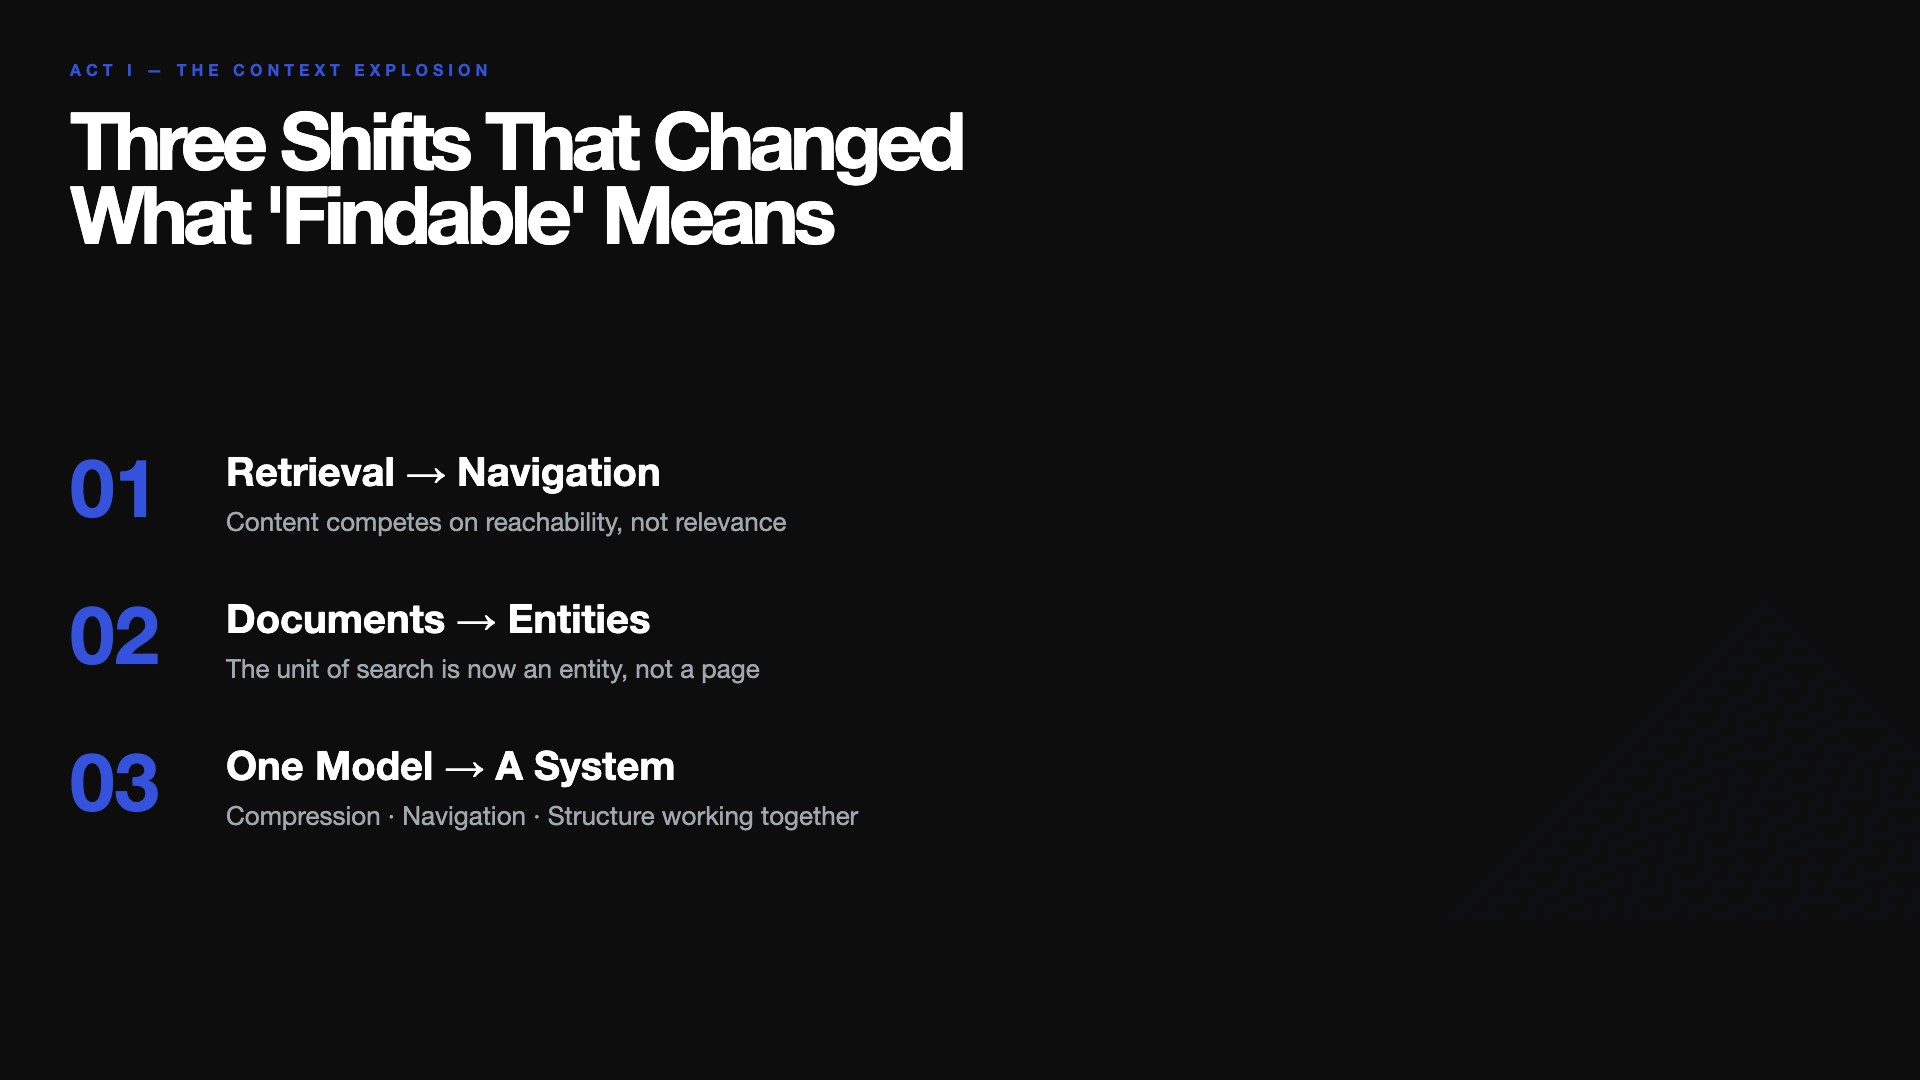
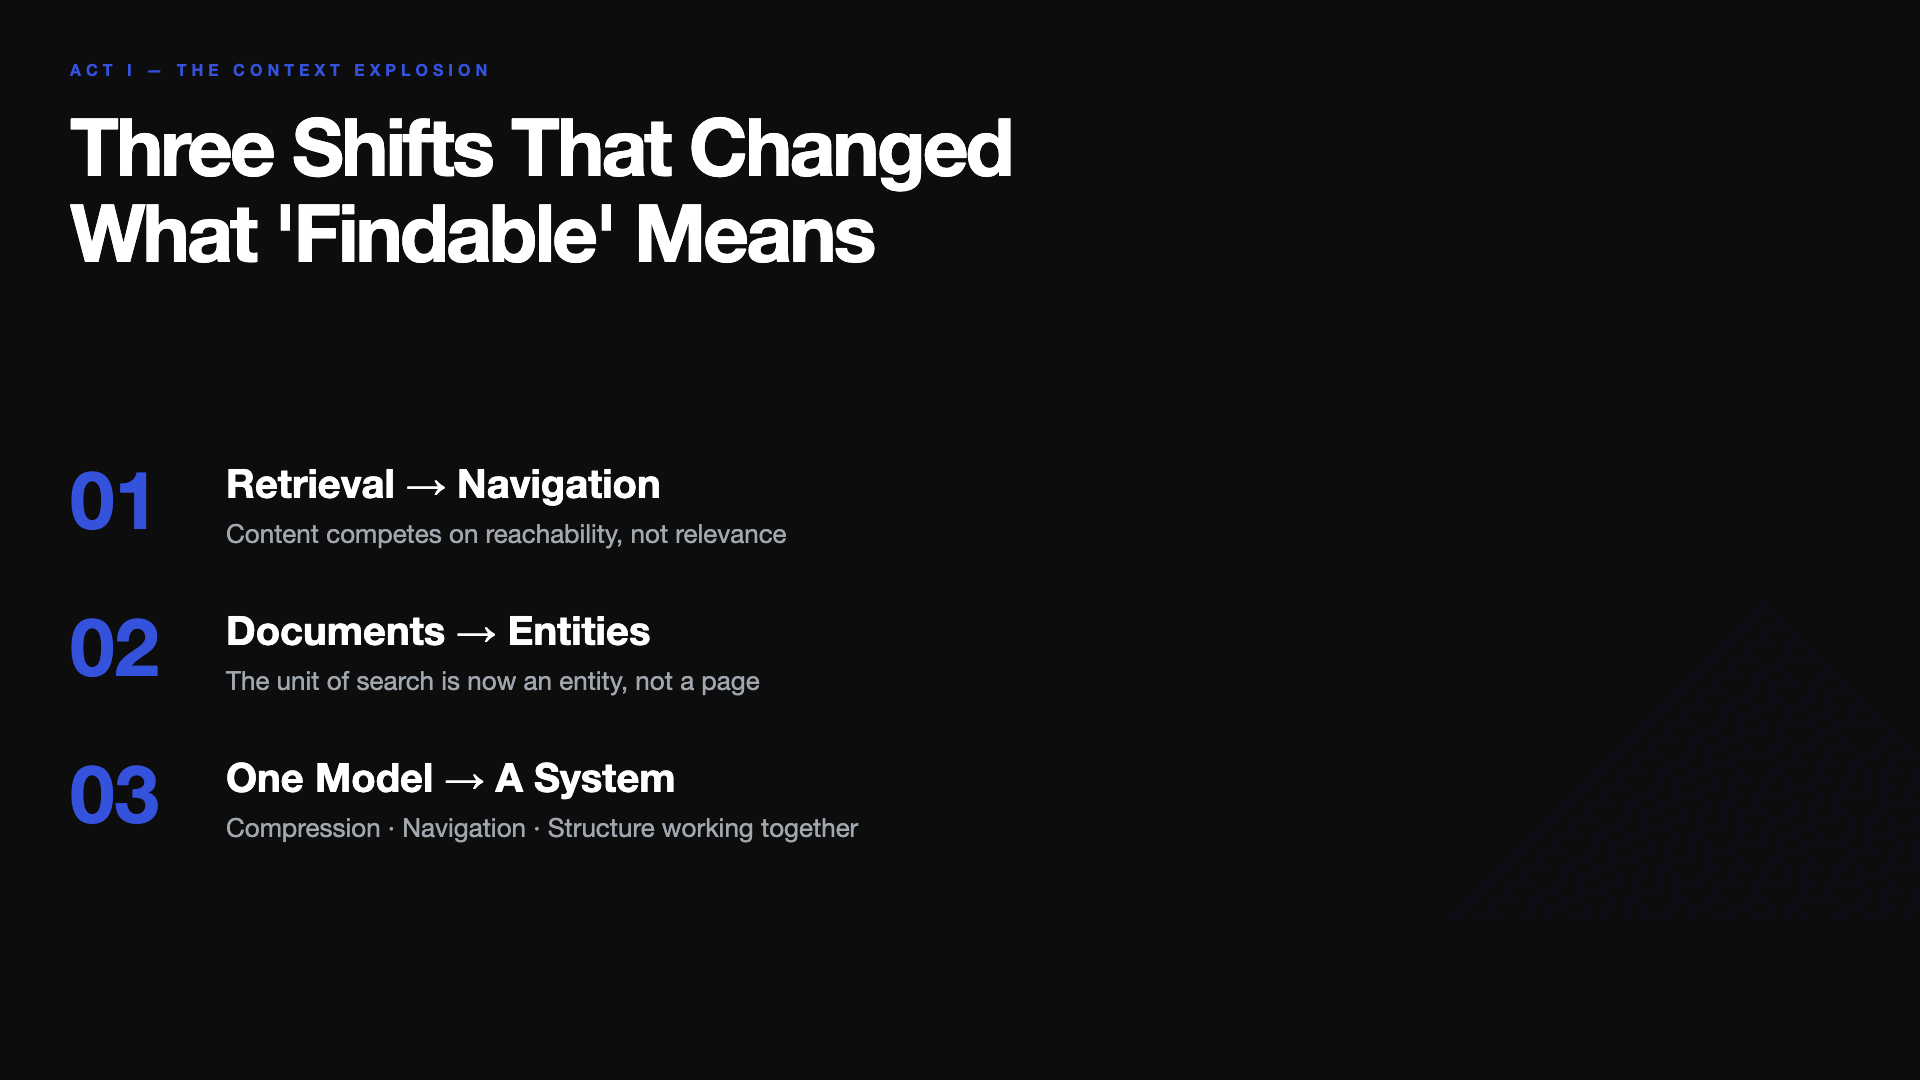
fix: headline breathing — line-height 0.92→1.08, letter-spacing -5→-3px

diff --git a/generate_slides_v2_bold.py b/generate_slides_v2_bold.py
@@ -64,7 +64,7 @@ font-family:{T['font']};overflow:hidden;position:relative;color:{fg};}}
 display:flex;flex-direction:column;justify-content:center;}}
 .section{{font-size:16px;font-weight:700;letter-spacing:5px;text-transform:uppercase;
 color:{T['sky']};margin-bottom:24px;}}
-.h{{font-weight:900;line-height:0.92;letter-spacing:-5px;}}
+.h{{font-weight:900;line-height:1.08;letter-spacing:-3px;}}
 .bar{{height:5px;margin-top:32px;}}
 </style></head><body>
 <div class="ca"><svg width="{T['W']}" height="{T['H']}" xmlns="http://www.w3.org/2000/svg">{ca_svg}</svg></div>
